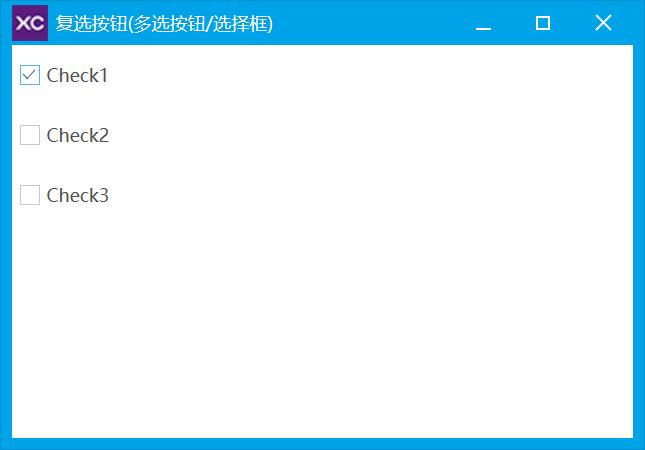
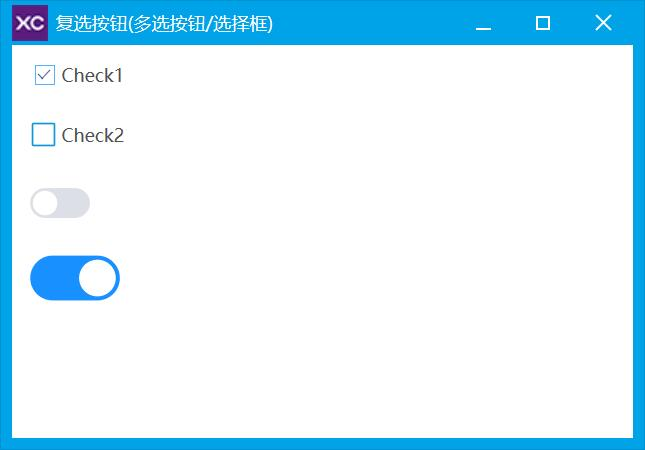
多选按钮

diff --git a/CheckButton/CheckButton.go b/CheckButton/CheckButton.go
@@ -3,8 +3,13 @@ package main
 
 import (
 	"fmt"
+	"sync"
 
 	"github.com/twgh/xcgui/app"
+	"github.com/twgh/xcgui/bkmanager"
+	"github.com/twgh/xcgui/bkobj"
+	"github.com/twgh/xcgui/imagex"
+	"github.com/twgh/xcgui/svg"
 	"github.com/twgh/xcgui/widget"
 	"github.com/twgh/xcgui/window"
 	"github.com/twgh/xcgui/xc"
@@ -12,45 +17,117 @@ import (
 )
 
 func main() {
+	// 初始化界面库
+	app.InitOrExit()
 	a := app.New(true)
-	a.EnableDPI(true)
-	a.EnableAutoDPI(true)
+	// 启用自适应DPI
+	a.EnableAutoDPI(true).EnableDPI(true)
+
 	w := window.New(0, 0, 430, 300, "复选按钮(多选按钮/选择框)", 0, xcc.Window_Style_Default)
 
 	// 创建按钮
-	Check1 := widget.NewButton(10, 35, 70, 30, "Check1", w.Handle)
-	Check2 := widget.NewButton(10, 75, 70, 30, "Check2", w.Handle)
-	Check3 := widget.NewButton(10, 115, 70, 30, "Check3", w.Handle)
+	Check1 := widget.NewButton(20, 35, 70, 30, "Check1", w.Handle)
+	Check2 := widget.NewButton(20, 75, 70, 30, "Check2", w.Handle)
 
-	// 设置按钮类型
+	// 设置按钮类型为多选按钮
 	Check1.SetTypeEx(xcc.Button_Type_Check)
 	Check2.SetTypeEx(xcc.Button_Type_Check)
-	Check3.SetTypeEx(xcc.Button_Type_Check)
 
 	// 启用背景透明
 	Check1.EnableBkTransparent(true)
 	Check2.EnableBkTransparent(true)
-	Check3.EnableBkTransparent(true)
 
-	// 设置选中
+	// 设置Check1选中
 	Check1.SetCheck(true)
-
 	// 注册事件_按钮被选中
-	Check1.Event_BUTTON_CHECK1(btn_check)
-	Check2.Event_BUTTON_CHECK1(btn_check)
-	Check3.Event_BUTTON_CHECK1(btn_check)
+	Check1.AddEvent_Button_Check(onBtnCheck)
+	Check2.AddEvent_Button_Check(onBtnCheck)
+
+	// 美化Check2, 涉及背景管理器和背景对象的使用,
+	// 感觉理解起来难的话, 可打开设计器给多选按钮通过背景编辑器添加背景图片试试, 结合可视化界面来理解代码.
+	// 反正没必要抵触设计器, 可视化设计熟练后很省事, xml也方便复用.
+	{
+		// 获取按钮的背景管理器
+		bkm := bkmanager.NewByHandle(Check2.GetBkManager())
+		// 背景_清空
+		bkm.Clear()
+
+		// 图片宽高
+		var imgWidth int32 = 18
+		// 加载svg图片
+		imgUnSelect := imagex.NewBySvg(svg.NewByStringW(svg_unselect).SetSize(imgWidth, imgWidth).Handle)
+		imgSelect := imagex.NewBySvg(svg.NewByStringW(svg_select).SetSize(imgWidth, imgWidth).Handle)
+
+		// 给背景管理器按钮不同状态添加图片背景对象
+		bkm.AddImage(xcc.Button_State_Flag_Check_No, imgUnSelect.Handle, 1)
+		bkm.AddImage(xcc.Button_State_Flag_Check, imgSelect.Handle, 2)
+
+		for i := int32(1); i <= 2; i++ {
+			// 获取上面添加的图片背景对象根据设置的id
+			_bkobj := bkobj.NewByHandle(bkm.GetObject(i))
+			// 设置对齐方式为左对齐
+			_bkobj.SetAlign(xcc.BkObject_Align_Flag_Left)
+			// 设置外边距
+			_bkobj.SetMargin(0, 0, imgWidth, 0)
+		}
+	}
+
+	// 创建开关按钮
+	SwitchButton := NewSwitchButton(20, 115, 40, 40, w.Handle)
+	SwitchButton.AddEvent_Button_Check(onBtnCheck)
+
+	SwitchButton2 := NewSwitchButton(20, 155, 60, 60, w.Handle)
+	SwitchButton2.SetCheck(true)
+	SwitchButton2.AddEvent_Button_Check(onBtnCheck)
 
 	w.ShowWindow(xcc.SW_SHOW)
 	a.Run()
 	a.Exit()
 }
 
+var (
+	imgOff *imagex.Image
+	imgOn  *imagex.Image
+	once   sync.Once
+)
+
+// NewSwitchButton 创建开关按钮. cx 与 cy 相同时效果最好.
+func NewSwitchButton(x, y, cx, cy int32, hParent int) *widget.Button {
+	btn := widget.NewButton(x, y, cx, cy, "", hParent)
+	// 设置按钮类型为多选按钮
+	btn.SetTypeEx(xcc.Button_Type_Check)
+	// 启用背景透明
+	btn.EnableBkTransparent(true)
+	// 加载svg图片, 只加载一次
+	once.Do(func() {
+		imgOff = imagex.NewBySvgStringW(svg_off)
+		imgOn = imagex.NewBySvgStringW(svg_on)
+		// 设置图片绘制类型为拉伸
+		imgOff.SetDrawType(xcc.Image_Draw_Type_Stretch)
+		imgOn.SetDrawType(xcc.Image_Draw_Type_Stretch)
+	})
+	// 设置按钮不同状态的背景图片
+	btn.AddBkImage(xcc.Button_State_Flag_Check_No, imgOff.Handle)
+	btn.AddBkImage(xcc.Button_State_Flag_Check, imgOn.Handle)
+	return btn
+}
+
+const (
+	svg_off = `<svg t="1745761805273" class="icon" viewBox="0 0 1024 1024" version="1.1" xmlns="http://www.w3.org/2000/svg" p-id="1075" width="32" height="32"><path d="M2 512c0-141 114-255 255-255h510c141 0 255 114 255 255S908 767 767 767H257C116 767 2 653 2 512z m255 208.8c115.5 0 208.8-93.2 208.8-208.8S372.5 303.2 257 303.2c-115.5 0-208.8 93.2-208.8 208.8S141.5 720.8 257 720.8z" fill="#DCDFE6" p-id="1076"></path></svg>`
+	svg_on  = `<svg t="1745761841891" class="icon" viewBox="0 0 1024 1024" version="1.1" xmlns="http://www.w3.org/2000/svg" p-id="1445" width="32" height="32"><path d="M2 512c0-141 114-255 255-255h510c141 0 255 114 255 255S908 767 767 767H257C116 767 2 653 2 512z m765 208.8c115.5 0 208.8-93.2 208.8-208.8S882.5 303.2 767 303.2c-115.5 0-208.8 93.2-208.8 208.8S651.5 720.8 767 720.8z" fill="#1890FF" p-id="1446"></path></svg>`
+)
+
 // 事件_按钮被选中
-func btn_check(hEle int, bCheck bool, pbHandled *bool) int {
+func onBtnCheck(hEle int, bCheck bool, pbHandled *bool) int {
 	if bCheck {
-		fmt.Println(xc.XBtn_GetText(hEle), "Selected")
+		fmt.Println(xc.XBtn_GetText(hEle), "selected")
 	} else {
 		fmt.Println(xc.XBtn_GetText(hEle), "Unselected")
 	}
 	return 0
 }
+
+const (
+	svg_unselect = `<svg t="1745750357126" class="icon" viewBox="0 0 1024 1024" version="1.1" xmlns="http://www.w3.org/2000/svg" p-id="4423" width="32" height="32"><path d="M896 64H128c-35.296 0-64 28.704-64 64v768c0 35.296 28.704 64 64 64h768c35.296 0 64-28.704 64-64V128c0-35.296-28.704-64-64-64zM128 896V128h768l0.064 768H128z" fill="#1296db" p-id="4424"></path></svg>`
+	svg_select   = `<svg t="1745750405994" class="icon" viewBox="0 0 1024 1024" version="1.1" xmlns="http://www.w3.org/2000/svg" p-id="4997" width="32" height="32"><path d="M896 64H128c-35.296 0-64 28.704-64 64v768c0 35.296 28.704 64 64 64h768c35.296 0 64-28.704 64-64V128c0-35.296-28.704-64-64-64zM128 896V128h768l0.064 768H128z" p-id="4998" fill="#1296db"></path><path d="M744.64 308.032l-310.368 331.296-157.696-132.48a32 32 0 0 0-41.184 49.024l180.896 152a32 32 0 0 0 43.936-2.624L791.36 351.776a32 32 0 1 0-46.72-43.744z" p-id="4999" fill="#1296db"></path></svg>`
+)
